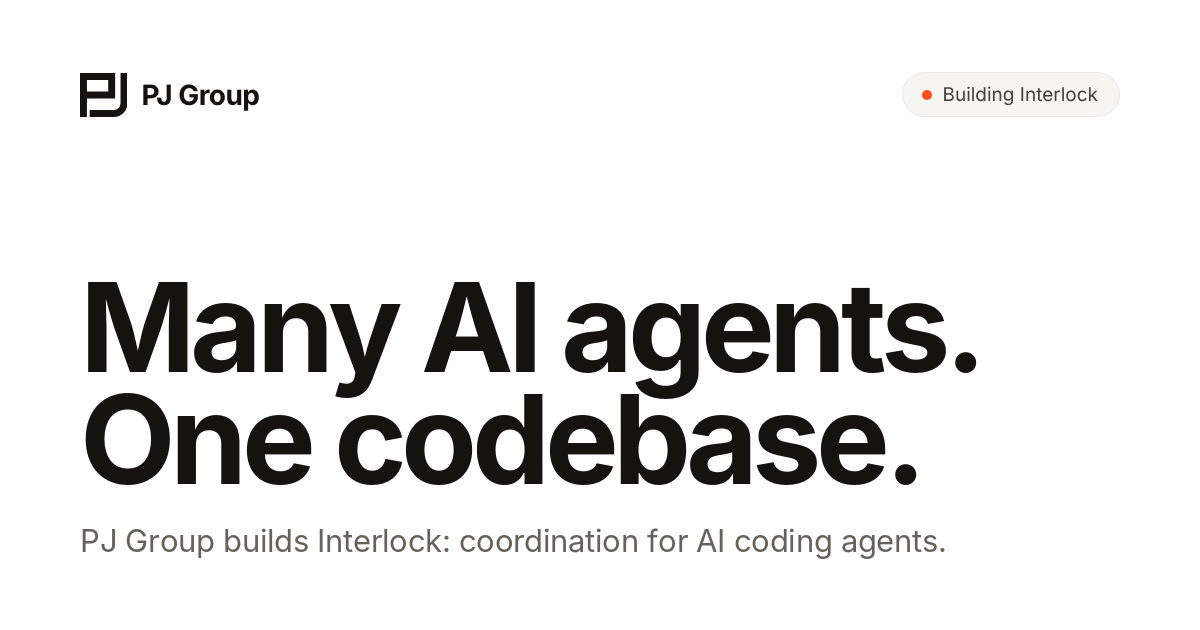
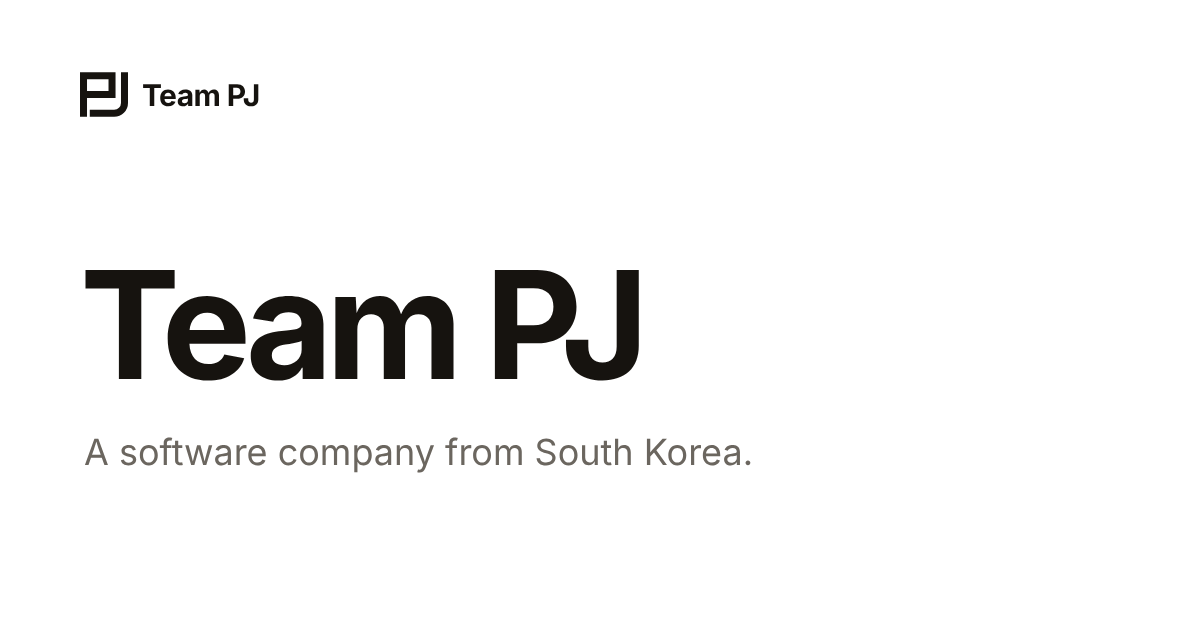
Rename the company from PJ Group to Team PJ
Updates site name, titles, meta, JSON-LD (old names kept as alternateName),
README, mailto subjects and the social preview image.

Claude-Session: https://claude.ai/code/session_01LvXmtEtd8MRwFqvKG4JGcG

diff --git a/_layouts/default.html b/_layouts/default.html
@@ -4,36 +4,36 @@
   <meta charset="utf-8">
   <meta name="viewport" content="width=device-width, initial-scale=1, viewport-fit=cover">
   {%- if page.home %}
-  <title>PJ Group</title>
+  <title>Team PJ</title>
   {%- else %}
-  <title>{{ page.title }} — PJ Group</title>
+  <title>{{ page.title }} — Team PJ</title>
   {%- endif %}
   {%- assign desc = page.description | default: site.description %}
   <meta name="description" content="{{ desc | escape }}">
   <meta name="robots" content="index, follow, max-image-preview:large">
-  <meta name="author" content="PJ Group">
+  <meta name="author" content="Team PJ">
   <meta name="theme-color" content="#ffffff">
   <link rel="canonical" href="{{ page.url | replace: 'index.html', '' | absolute_url }}">
 
   <meta property="og:type" content="{% if page.layout == 'post' %}article{% else %}website{% endif %}">
-  <meta property="og:site_name" content="PJ Group">
-  <meta property="og:title" content="{% if page.home %}PJ Group{% else %}{{ page.title | escape }} — PJ Group{% endif %}">
+  <meta property="og:site_name" content="Team PJ">
+  <meta property="og:title" content="{% if page.home %}Team PJ{% else %}{{ page.title | escape }} — Team PJ{% endif %}">
   <meta property="og:description" content="{{ desc | escape }}">
   <meta property="og:url" content="{{ page.url | replace: 'index.html', '' | absolute_url }}">
   <meta property="og:image" content="{{ '/assets/og-image.png' | absolute_url }}">
   <meta property="og:image:width" content="1200">
   <meta property="og:image:height" content="630">
-  <meta property="og:image:alt" content="{% if page.home %}PJ Group{% else %}PJ Group — Interlock: many AI coding agents, one codebase.{% endif %}">
+  <meta property="og:image:alt" content="{% if page.home %}Team PJ{% else %}Team PJ — Interlock: many AI coding agents, one codebase.{% endif %}">
   <meta property="og:locale" content="en_US">
   <meta property="og:locale:alternate" content="ko_KR">
   <meta name="twitter:card" content="summary_large_image">
-  <meta name="twitter:title" content="{% if page.home %}PJ Group{% else %}{{ page.title | escape }} — PJ Group{% endif %}">
+  <meta name="twitter:title" content="{% if page.home %}Team PJ{% else %}{{ page.title | escape }} — Team PJ{% endif %}">
   <meta name="twitter:description" content="{{ desc | escape }}">
   <meta name="twitter:image" content="{{ '/assets/og-image.png' | absolute_url }}">
 
   <link rel="icon" href="/favicon.svg" type="image/svg+xml">
   <link rel="apple-touch-icon" href="/assets/brand/apple-touch-icon.png">
-  <link rel="alternate" type="application/atom+xml" title="PJ Group — Board" href="/feed.xml">
+  <link rel="alternate" type="application/atom+xml" title="Team PJ — Board" href="/feed.xml">
   {%- if page.home %}
 {% include jsonld.html %}
   {%- endif %}
@@ -61,9 +61,9 @@
   <!-- ============ NAV ============ -->
   <header class="nav" id="nav">
     <div class="container nav__inner">
-      <a href="/" class="brand" aria-label="PJ Group home">
+      <a href="/" class="brand" aria-label="Team PJ home">
         <svg class="brand__mark" viewBox="0 0 520 482" aria-hidden="true" focusable="false"><path fill-rule="evenodd" d="M0 0H385V279H76V482H0Z M76 76V203H309V76Z"/><path d="M444 0H520V332A150 150 0 0 1 370 482H106V406H370A74 74 0 0 0 444 332Z"/></svg>
-        <span class="brand__name">PJ Group</span>
+        <span class="brand__name">Team PJ</span>
       </a>
       <nav class="nav__links" id="navLinks" aria-label="Main">
         {%- unless page.home %}<a href="/interlock/experiments/"{% if page.nav == 'results' %} aria-current="page"{% endif %}><span class="en">Results</span><span class="ko">실험 결과</span></a>{% endunless %}
@@ -88,9 +88,9 @@
   <!-- ============ FOOTER ============ -->
   <footer class="footer">
     <div class="container footer__inner">
-      <a href="/" class="brand" aria-label="PJ Group home">
+      <a href="/" class="brand" aria-label="Team PJ home">
         <svg class="brand__mark" viewBox="0 0 520 482" aria-hidden="true" focusable="false"><path fill-rule="evenodd" d="M0 0H385V279H76V482H0Z M76 76V203H309V76Z"/><path d="M444 0H520V332A150 150 0 0 1 370 482H106V406H370A74 74 0 0 0 444 332Z"/></svg>
-        <span class="brand__name">PJ Group</span>
+        <span class="brand__name">Team PJ</span>
       </a>
       <nav class="footer__links" aria-label="Footer">
         <a href="/apps/">Interlock</a>
@@ -106,7 +106,7 @@
         <span class="ko">Interlock은 아직 정식 출시 전입니다. 사용을 원하시면 pj.southkorea@gmail.com으로 연락 주세요. 매뉴얼과 사용 토큰을 발행해 회신드립니다.</span>
       </p>
       {%- endunless %}
-      <p class="footer__copy">© <span id="year">2026</span> PJ Group</p>
+      <p class="footer__copy">© <span id="year">2026</span> Team PJ</p>
     </div>
   </footer>
 

diff --git a/index.html b/index.html
@@ -1,15 +1,15 @@
 ---
 layout: default
 home: true
-title: PJ Group
-description: "PJ Group is a software company from South Korea that builds developer tools for AI coding agents. PJ Group(PJ그룹)은 AI 코딩 에이전트를 위한 개발자 도구를 만드는 한국의 소프트웨어 회사입니다."
+title: Team PJ
+description: "Team PJ is a software company from South Korea that builds developer tools for AI coding agents. Team PJ는 AI 코딩 에이전트를 위한 개발자 도구를 만드는 한국의 소프트웨어 회사입니다."
 ---
     <section class="hero">
       <div class="hero__grid" aria-hidden="true"></div>
       <div class="container hero__inner">
         <div>
           <p class="pill reveal"><span class="en">Founded in South Korea</span><span class="ko">대한민국에서 창업</span></p>
-          <h1 class="hero__title reveal">PJ Group</h1>
+          <h1 class="hero__title reveal">Team PJ</h1>
           <p class="hero__lead reveal">
             <span class="en">We build software that lets AI agents work on real codebases without getting in each other's way.</span>
             <span class="ko">AI 에이전트가 실제 코드베이스에서 서로 부딪히지 않고 일하게 하는 소프트웨어를 만듭니다.</span>
@@ -23,7 +23,7 @@ description: "PJ Group is a software company from South Korea that builds develo
         <div class="section__head reveal">
           <p class="eyebrow"><span class="en">About us</span><span class="ko">회사 소개</span></p>
           <h2 class="section__title"><span class="en">A small team, measured claims.</span><span class="ko">작은 팀, 검증된 주장.</span></h2>
-          <p class="section__lead"><span class="en">PJ Group is a software company from South Korea, started in 2026 by two student founders. We build developer tools for the age of AI agents, and we publish the method, limits and raw data behind every number we state.</span><span class="ko">PJ Group은 2026년에 두 학생 창업자가 시작한 한국의 소프트웨어 회사입니다. AI 에이전트 시대의 개발자 도구를 만들고, 우리가 내놓는 모든 수치의 방법 · 한계 · 원자료를 공개합니다.</span></p>
+          <p class="section__lead"><span class="en">Team PJ is a software company from South Korea, started in 2026 by two student founders. We build developer tools for the age of AI agents, and we publish the method, limits and raw data behind every number we state.</span><span class="ko">Team PJ는 2026년에 두 학생 창업자가 시작한 한국의 소프트웨어 회사입니다. AI 에이전트 시대의 개발자 도구를 만들고, 우리가 내놓는 모든 수치의 방법 · 한계 · 원자료를 공개합니다.</span></p>
         </div>
         <ul class="points reveal">
           <li><b><span class="en">Goal</span><span class="ko">목표</span></b><span class="en">We turn new possibilities into reality with innovative technology, and create real value for the world.</span><span class="ko">혁신적인 기술로 새로운 가능성을 현실로 만들고, 세상에 실질적인 가치를 창출한다.</span></li>

diff --git a/_includes/jsonld.html b/_includes/jsonld.html
@@ -5,12 +5,12 @@
       {
         "@type": "Organization",
         "@id": "https://team-pj-lab.github.io/#organization",
-        "name": "PJ Group",
-        "alternateName": ["PJ그룹", "PJ", "피제이그룹"],
+        "name": "Team PJ",
+        "alternateName": ["PJ Group", "PJ그룹", "팀 PJ", "피제이그룹", "PJ"],
         "url": "https://team-pj-lab.github.io/",
         "logo": "https://team-pj-lab.github.io/assets/brand/pj-logo.png",
         "image": "https://team-pj-lab.github.io/assets/og-image.png",
-        "description": "PJ Group is a software company founded in South Korea.",
+        "description": "Team PJ is a software company founded in South Korea.",
                 "email": "pj.southkorea@gmail.com",
         "contactPoint": {
           "@type": "ContactPoint",
@@ -22,18 +22,13 @@
           { "@type": "Person", "name": "Jung Woojin", "alternateName": "정우진", "jobTitle": "Co-founder & CEO", "description": "Student at DGIST", "email": "mailto:jeromesone@gmail.com" },
           { "@type": "Person", "name": "Park Bugeon", "alternateName": "박부건", "jobTitle": "Co-founder & CTO (External Relations)", "description": "High school student", "email": "mailto:bagdoeon827@gmail.com" }
         ],
-        "subOrganization": {
-          "@type": "Organization",
-          "name": "Team PJ",
-          "description": "PJ Group's first team and main software development team."
-        },
         "sameAs": ["https://github.com/TEAM-PJ-LAB"]
       },
       {
         "@type": "WebSite",
         "@id": "https://team-pj-lab.github.io/#website",
         "url": "https://team-pj-lab.github.io/",
-        "name": "PJ Group",
+        "name": "Team PJ",
         "inLanguage": ["en", "ko"],
         "publisher": { "@id": "https://team-pj-lab.github.io/#organization" }
       }

diff --git a/apps/index.html b/apps/index.html
@@ -11,7 +11,7 @@ description: "Interlock lets many AI coding agents work on one codebase without 
         <div>
           <p class="pill reveal"><i class="dot dot--live"></i><span class="en">Recruiting beta testers · first 100 free</span><span class="ko">베타 테스터 모집 중 · 첫 100명 무료</span></p>
           <h1 class="hero__title reveal">
-            <span class="sr-only">Interlock by PJ Group — </span>
+            <span class="sr-only">Interlock by Team PJ — </span>
             <span class="en">Stop your AI coding agents from overwriting each other.</span>
             <span class="ko">AI 코딩 에이전트끼리 서로의 작업을 덮어쓰지 않게.</span>
           </h1>
@@ -246,7 +246,7 @@ description: "Interlock lets many AI coding agents work on one codebase without 
             <span class="en">Interlock is not generally available yet. If you'd like to use it, email pj.southkorea@gmail.com and we will reply with the manual and an access token. The first 100 beta testers are free.</span>
             <span class="ko">Interlock은 아직 정식 출시 전입니다. 사용을 원하시면 pj.southkorea@gmail.com으로 연락해 주세요. 사용 매뉴얼과 사용을 위한 토큰을 발행해 회신드립니다. 첫 100명 베타 테스터는 무료입니다.</span>
           </p>
-          <a class="btn btn--primary" href="mailto:pj.southkorea@gmail.com?subject=%5BPJ%20Group%5D%20Interlock%20Access%20Request"><span class="en">Request access</span><span class="ko">사용 신청</span></a>
+          <a class="btn btn--primary" href="mailto:pj.southkorea@gmail.com?subject=%5BTeam%20PJ%5D%20Interlock%20Access%20Request"><span class="en">Request access</span><span class="ko">사용 신청</span></a>
         </aside>
       </div>
     </section>

diff --git a/_includes/signup.html b/_includes/signup.html
@@ -1,4 +1,4 @@
-{%- assign beta = site.beta_form | default: "mailto:pj.southkorea@gmail.com?subject=%5BPJ%20Group%5D%20Interlock%20Beta%20Tester" -%}
+{%- assign beta = site.beta_form | default: "mailto:pj.southkorea@gmail.com?subject=%5BTeam%20PJ%5D%20Interlock%20Beta%20Tester" -%}
 <form class="signup" data-signup action="{{ beta }}" method="post"{% if beta contains "mailto:" %} enctype="text/plain"{% endif %}>
   <label class="sr-only" for="email-{{ include.id }}"><span class="en">Work email</span><span class="ko">업무용 이메일</span></label>
   <input id="email-{{ include.id }}" name="email" type="email" required autocomplete="email" placeholder="you@company.com">

diff --git a/assets/js/main.js b/assets/js/main.js
@@ -1,5 +1,5 @@
 /* =========================================================
-   PJ Group — interactions
+   Team PJ — interactions
    ========================================================= */
 (() => {
   const $ = (s, c = document) => c.querySelector(s);

diff --git a/board/index.html b/board/index.html
@@ -2,7 +2,7 @@
 layout: default
 nav: board
 title: Board
-description: "News, launch notes and build logs from PJ Group."
+description: "News, launch notes and build logs from Team PJ."
 ---
     <section class="page-head">
       <div class="container">

diff --git a/assets/css/style.css b/assets/css/style.css
@@ -1,5 +1,5 @@
 /* =========================================================
-   PJ Group — Interlock
+   Team PJ — Interlock
    ========================================================= */
 
 :root {

diff --git a/_posts/2026-10-14-hello-world.md b/_posts/2026-10-14-hello-world.md
@@ -1,13 +1,13 @@
 ---
-title: "Hello, world — PJ Group is live"
+title: "Hello, world — Team PJ is live"
 description: "Our website is up. Who we are and what we're building: Interlock."
 ---
 
 <div class="en" markdown="1">
 
-Today we're opening PJ Group's website.
+Today we're opening Team PJ's website.
 
-PJ Group is a software company from South Korea, started by two student founders — Jung Woojin (DGIST) and Park Bugeon (high school). We build Interlock.
+Team PJ is a software company from South Korea, started by two student founders — Jung Woojin (DGIST) and Park Bugeon (high school). We build Interlock.
 
 ## What we're building
 
@@ -19,9 +19,9 @@ We'll post launch notes and build logs here. If you want to build with us, write
 
 <div class="ko" markdown="1">
 
-오늘 PJ Group 홈페이지를 열었습니다.
+오늘 Team PJ 홈페이지를 열었습니다.
 
-PJ Group은 대한민국의 소프트웨어 회사입니다. 두 명의 학생 창업자 — 정우진(DGIST), 박부건(고등학생) — 이 함께 시작했습니다. 우리는 Interlock을 만듭니다.
+Team PJ는 대한민국의 소프트웨어 회사입니다. 두 명의 학생 창업자 — 정우진(DGIST), 박부건(고등학생) — 이 함께 시작했습니다. 우리는 Interlock을 만듭니다.
 
 ## 지금 만드는 것
 

diff --git a/README.md b/README.md
@@ -1,11 +1,10 @@
-# PJ Group — Software & Ventures
+# Team PJ — Software & Ventures
 
-PJ Group 공식 웹사이트 · https://team-pj-lab.github.io (한국어 / English)
+Team PJ 공식 웹사이트 · https://team-pj-lab.github.io (한국어 / English)
 
-PJ Group은 소프트웨어를 중심으로 다양한 사업을 설계하고 운영하는 회사입니다.
+Team PJ는 소프트웨어를 중심으로 다양한 사업을 설계하고 운영하는 회사입니다.
 
 - **CEO** 정우진 (Jung Woojin) · **CTO** 박부건 (Park Bugeon)
-- **Team PJ** — 회사의 첫 번째 팀이자 메인 개발팀 (CTO 박부건)
 - **Contact** — pj.southkorea@gmail.com (대외 연락: 박부건)
 
 ## Stack
